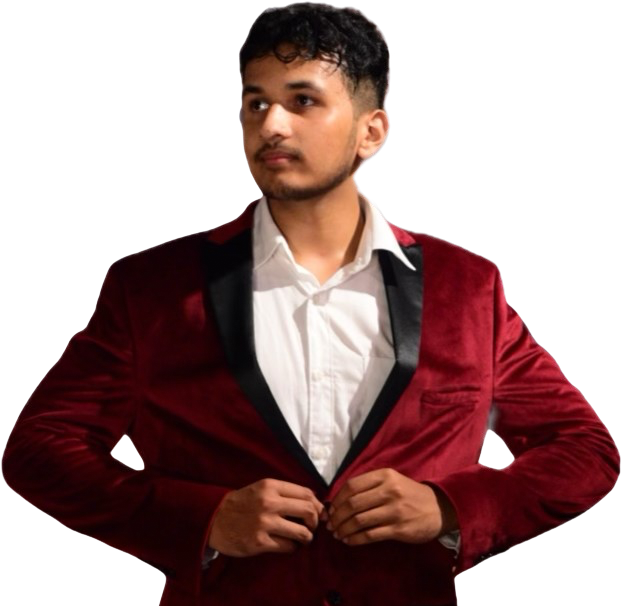
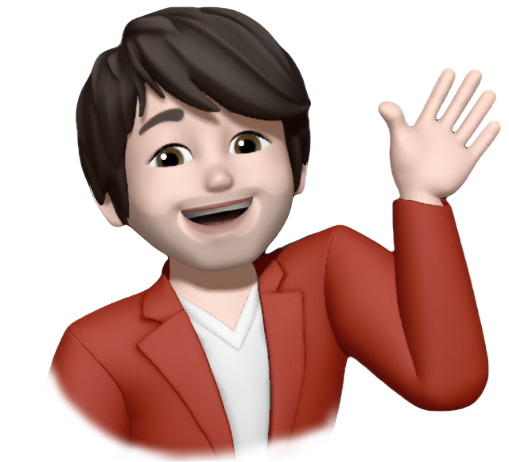
Refactor page and about components
- Uncomment the About component in the Home page
- Update the age information in the About component
- Improve the styling and content of the About component
- Update the image in the About component
- Update the text in the personal tab of the About component
- Adjust the positioning of badges in the Hero component
- Update the image in the Hero component

diff --git a/components/About.jsx b/components/About.jsx
@@ -29,7 +29,7 @@ const infoData = [
   },
   {
     icon: <Calendar size={20} />,
-    text: "Born on 22 April, 2003",
+    text: "21 Years Old",
   },
   {
     icon: <GraduationCap size={20} />,
@@ -40,7 +40,6 @@ const infoData = [
     text: "Bengaluru",
   },
 ];
-
 const qualificationData = [
   {
     title: "education",
@@ -148,8 +147,8 @@ const About = () => {
           {/* image */}
           <div className="relative hidden flex-1 xl:flex">
             <DevImg
-              containerStyles="bg_about_shape_light dark:bg-about_shape_dark w-[505px] h-[505px] bg-no-repeat relative"
-              imgSrc="/about/developer.png"
+              containerStyles="bg_about_shape_light dark:bg-about_shape_dark w-[505px] h-[505px] bg-no-repeat relative overflow-hidden"
+              imgSrc="/about/nobg.png"
             />
           </div>
           {/* tabs */}
@@ -174,14 +173,10 @@ const About = () => {
                 {/* personal */}
                 <TabsContent value="personal">
                   <div className="text-center xl:text-left">
-                    <h3 className="h3 mb-4">
-                      Unmatched Service Quality for Over 10 Years
-                    </h3>
+                    <h3 className="h3 mb-4">Bringing ideas to life</h3>
                     <p className="subtitle max-auto max-w-xl xl:mx-0">
                       {" "}
-                      I specialize in crafting intuitive websites with
-                      cutting-edge technology, delivering dynamic and engaging
-                      user experiences.
+                      A curious person, who wants to know how things work
                     </p>
                     {/* icons */}
                     <div className="mb-12 grid gap-4 xl:grid-cols-2">

diff --git a/components/Hero.jsx b/components/Hero.jsx
@@ -51,14 +51,14 @@ const Hero = () => {
           </div>
           {/* image */}
           <div className="relative hidden xl:flex">
-            {/* badge 1 */}
+            {/* internship badge */}
             <Badge
-              containerStyles="absolute top-[24%] -left-[5rem]"
+              containerStyles="absolute top-[24%] -left-[8.5rem]"
               icon={<RiBriefcase4Fill />}
               endCountNum={2}
               badgeText="Internships Completed"
             />
-            {/* badge 2 */}
+            {/* finsihed projects badge */}
             <Badge
               containerStyles="absolute top-[80%] -left-[1rem]"
               icon={<RiTodoFill />}
@@ -76,7 +76,7 @@ const Hero = () => {
             />
             <div className="absolute -right-2 -top-1 h-[500px] w-[500px] bg-hero_shape2_light bg-no-repeat dark:bg-hero_shape2_dark"></div>
             <DevImg
-              containerStyles="bg-hero_shape w-[510px] h-[462px] bg-no-repeat relative bg-bottom"
+              containerStyles="bg-hero_shape w-[510px] h-[462px] bg-no-repeat relative"
               imgSrc="/hero/developer.png"
             />
           </div>

diff --git a/app/page.jsx b/app/page.jsx
@@ -12,7 +12,7 @@ export default function Home() {
   return (
     <main>
       <Hero />
-      {/* <About /> */}
+      <About />
       {/* <Services /> */}
       <Work />
       <Reviews />
